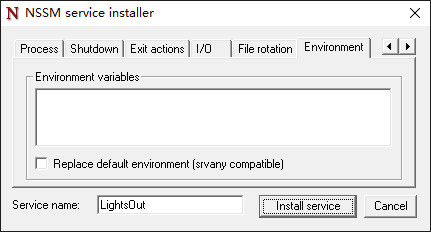
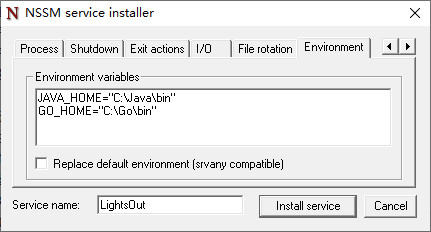
writing

Changed region(s): [[0.0, 0.0, 1.0, 1.0], [0.0905, 0.3922, 0.3921, 0.5129]]

diff --git a/55_系统运维/202205250901_nssm/nssm.md b/55_系统运维/202205250901_nssm/nssm.md
@@ -12,9 +12,21 @@ nssm
 
 
 
+
+
+虽然 `nssm` 的最终稳定版 `2.24` 停留在 `2014` 年，但是它还是支持 `Windows 10` 、`Windows Server 2016` 甚至是更新的 `Windows` 版本的，因此大可不必担心是否能正常使用的问题。
+
+
+
+
+
+
+
 找了一个以前自制的小游戏试试吧。
 
 按照前面提示过的，我们先打条安装服务的命令。
+
+注意，命令提示符窗口要以管理员身份运行哦！
 
 ```
 # LightsOut是服务名，我自己随便取的
@@ -148,4 +160,111 @@ nssm set <服务名称> AppStderr C:\sysadm\logs\error.log
 ```
 
 图b07
+
+
+
+##### 文件轮换
+
+网络上有些教程并没有写清楚这玩意到底是啥意思。
+
+实际上它是指多文件设定，啥意思呢，就是写完一个文件后再写一个文件。
+
+举例来说，比如一个日志文件，我们不可能让它一直写下去最终导致非常庞大。
+
+因此，通过文件轮换，那么我们可以将一个日志文件分成几个。
+
+怎么分呢？
+
+可以是有时间间隔的，比如过多久轮换（写一个）新文件，旧文件就不管了。
+
+也可以是有大小比较的，比如旧文件到大一定程度，那么我们就轮换成一个新文件。
+
+这个文件轮换方式可以和 `I/O` 结合使用。
+
+```
+nssm set <服务名称> AppStdoutCreationDisposition 4
+nssm set <服务名称> AppStderrCreationDisposition 4
+nssm set <服务名称> AppRotateFiles 1
+nssm set <服务名称> AppRotateOnline 0
+nssm set <服务名称> AppRotateSeconds 86400
+nssm set <服务名称> AppRotateBytes 1048576
+```
+
+图b08
+
+
+
+##### 环境变量
+
+这个很好理解，可以为服务程序提供环境变量访问相应资源。
+
+```
+nssm set <服务名称> AppEnvironmentExtra TEMP=C:\Temp
+nssm set <服务名称> AppEnvironmentExtra JAVA_HOME=C:\Java\bin GO_HOME=C:\Go\bin
+```
+
+图b09
+
+
+
+
+
+
+
+### 卸载服务
+
+很简单，带上 `remove` 卸载参数即可。
+
+```
+nssm.exe remove <服务名称>
+```
+
+图c01
+
+
+
+### 操作服务
+
+```
+# 启动服务
+nssm.exe start <服务名称>
+
+# 停止服务
+nssm.exe stop <服务名称>
+
+# 重启服务
+nssm.exe restart <服务名称>
+
+# 暂停服务
+nssm.exe pause <服务名称>
+
+# 查看状态
+nssm.exe status <服务名称>
+
+# 文件轮换
+nssm.exe rotate <服务名称>
+```
+
+
+
+### 编辑服务
+
+通常使用 `get` 或 `set` 来为服务获取或设置一些参数，前面也有过示例。
+
+```
+nssm.exe get <服务名称> <参数>
+nssm.exe get <服务名称> <参数> <子参数>
+
+nssm.exe set <服务名称> <参数> <值>
+nssm.exe set <服务名称> <参数> <子参数> <值>
+```
+
+
+
+如果你嫌麻烦，想将参数重置为默认值，那就直接用 `reset` 参数吧。
+
+```
+nssm.exe reset <服务名称> <参数>
+nssm.exe reset <服务名称> <参数> <子参数>
+```
 
